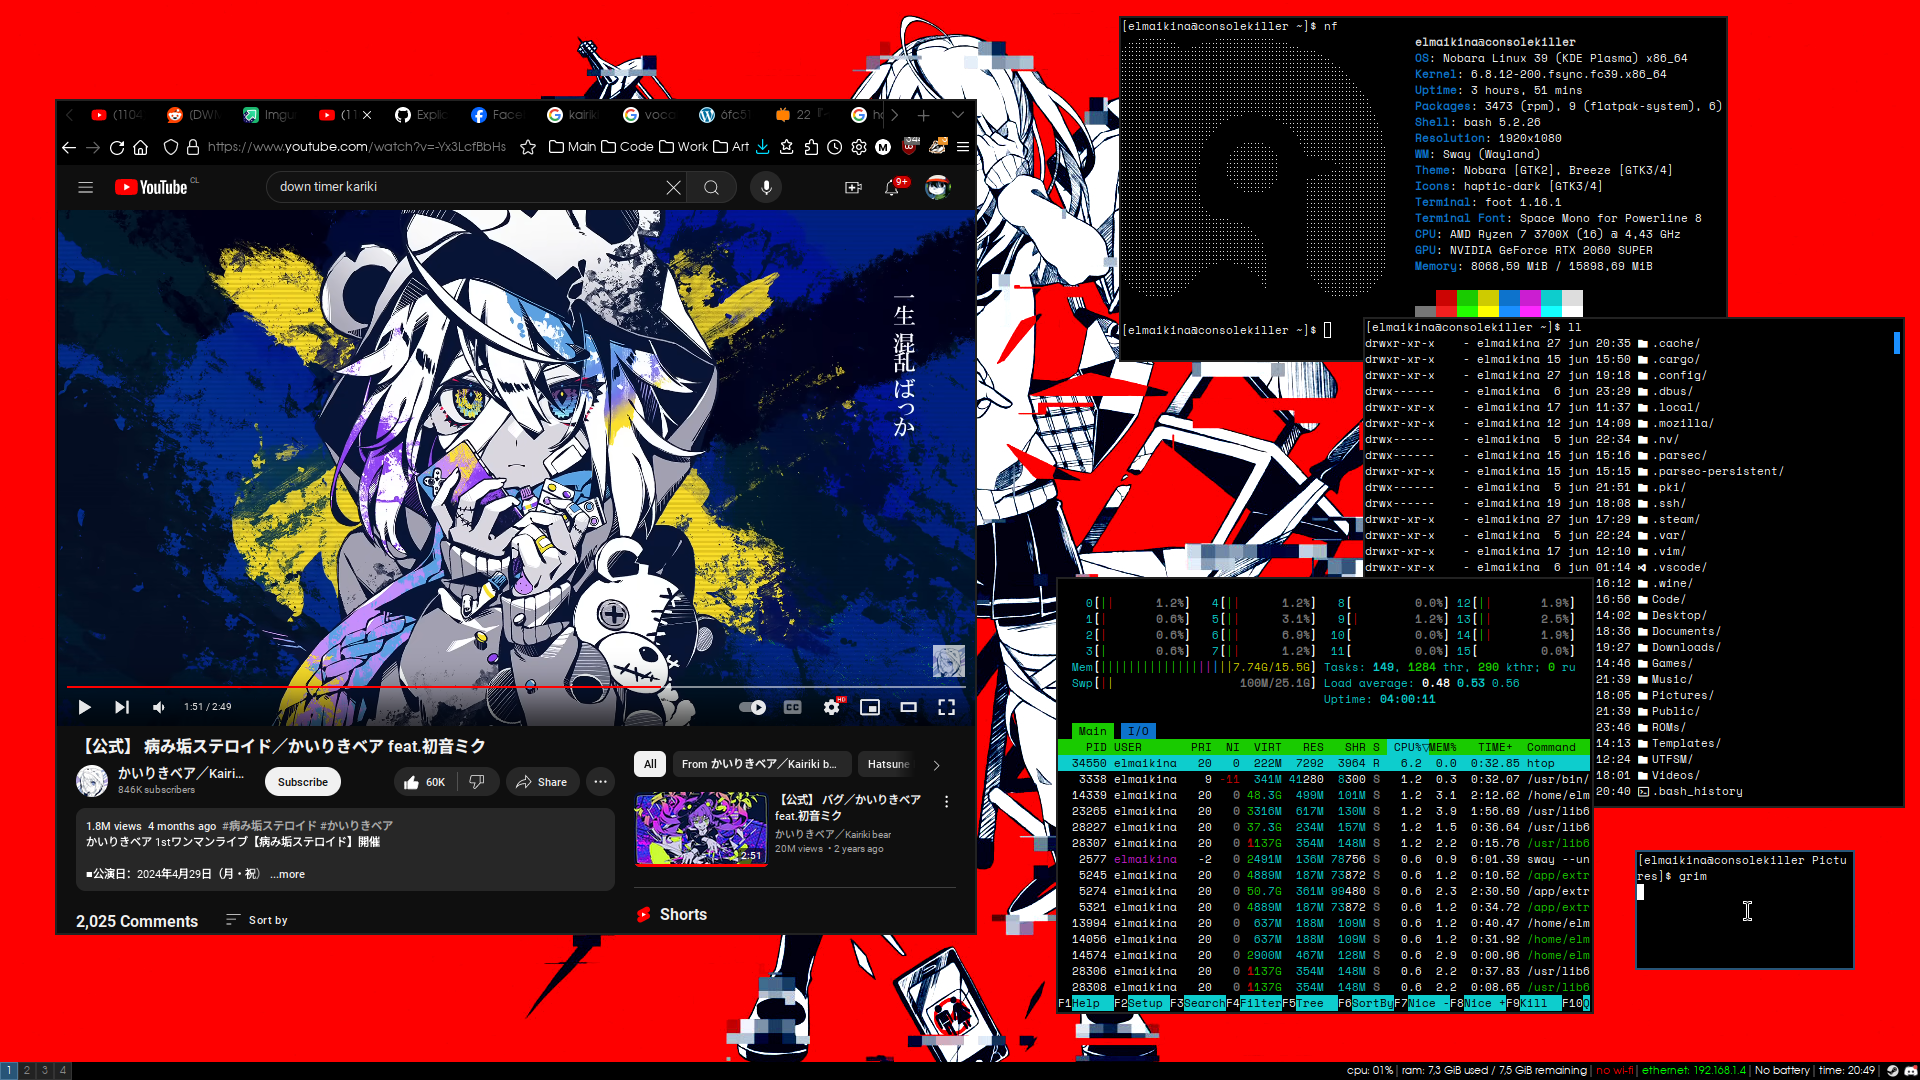
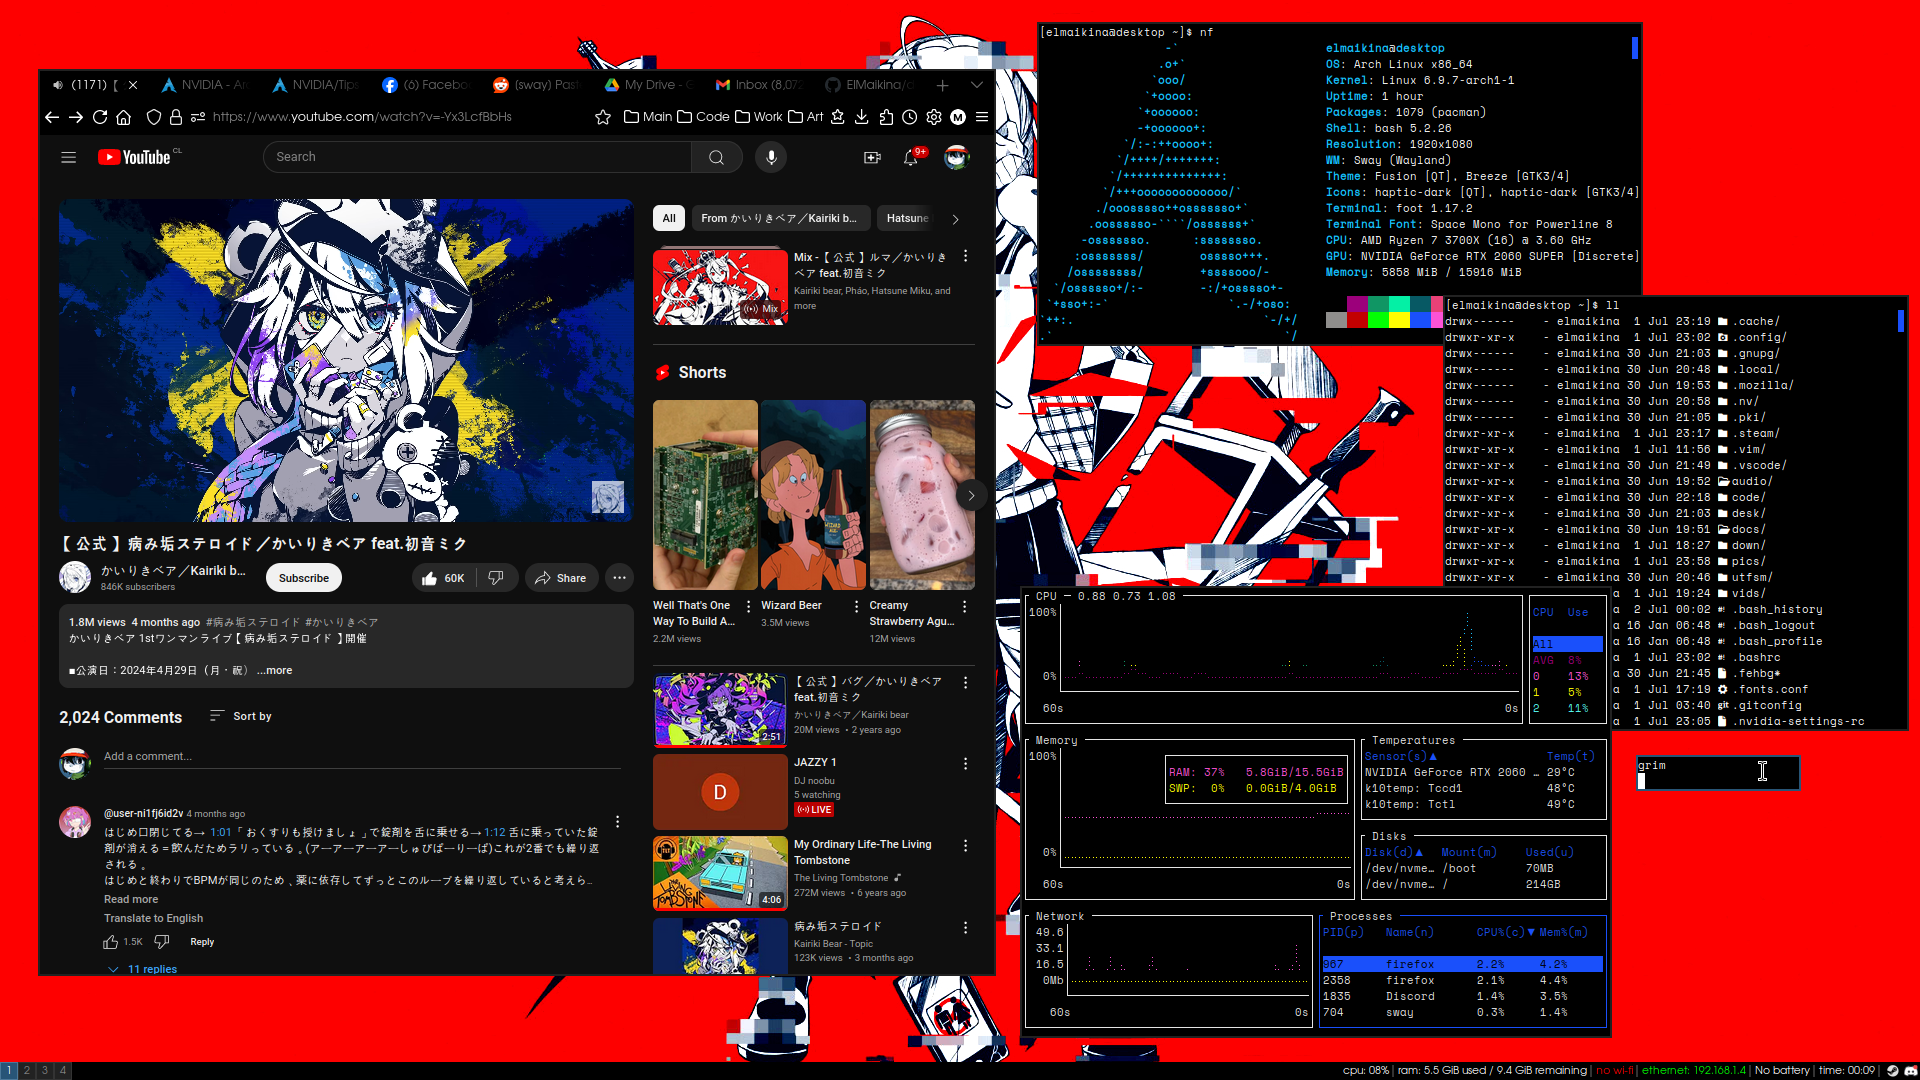
disabled smooth scrolling and updated screenshot

diff --git a/README.md b/README.md
@@ -15,7 +15,7 @@ Se usan en ambientes graficos
 - Sway: Gestor de ventanas
 - Foot: Terminal
 - Code: IDE
-- IMV: Imagenes
+- SwayImg: Imagenes
 - MPV: Videos
 - Zathura: PDFs
 
@@ -25,7 +25,8 @@ Se usan en la TTY o desde un Emulador de Terminal
 - TMUX: Multiplexor
 - Vim: Editor
 - Task: Tareas
-- HTOP: Procesos
+- Bottom: Procesos
+- WF-Recorder: Grabar
 
 # Ambiente
 El archivo _enviroment_ contiene algunas variables destinadas a dar alto rendimiento y compatibilidad
